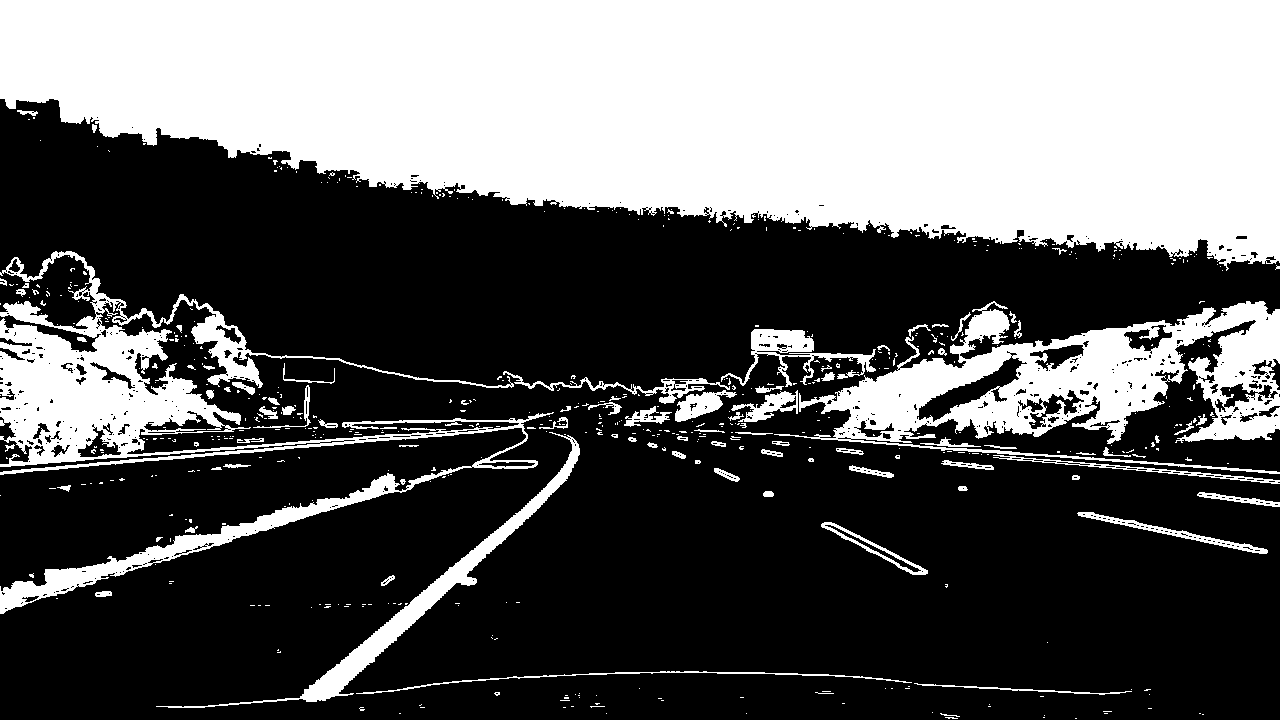
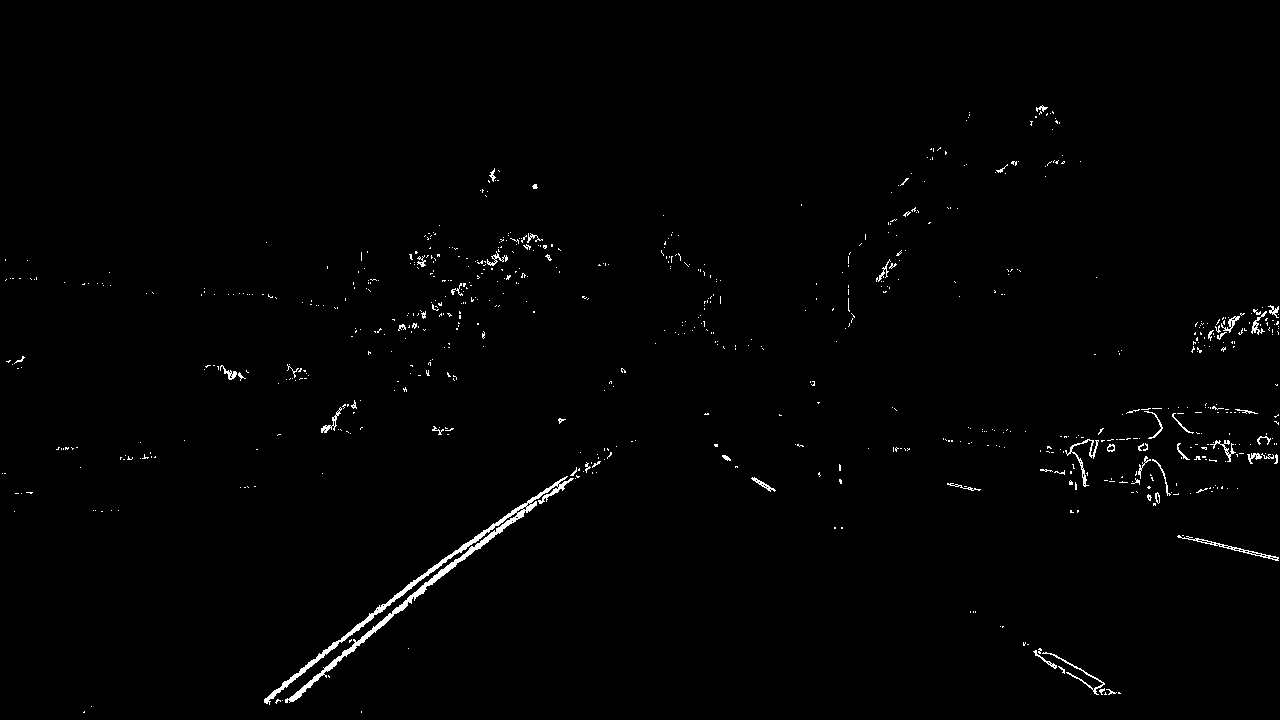
image filtering AKA data extraction adjusted to highlight yellow and white lanes

diff --git a/project4/start.py b/project4/start.py
@@ -8,6 +8,7 @@ import matplotlib.image as mpimg
 import line
 from moviepy.editor import VideoFileClip
 import lpf
+import os.path
 
 demo = False
 # TODO: add convolutions
@@ -43,11 +44,18 @@ def binary_to_color(binary):
 class ImageProcessing:
     def __init__(self, img_size, calibration_set_pattern):
         self.img_size = img_size
-
-        calibration_set = camera.CameraCalibrationSet(calibration_set_pattern)
-        self.cam = camera.Camera()
-        self.cam.LoadCalibrationSet(calibration_set)
-        self.cam.CalibrateFor(self.img_size)
+          
+        packfile = './calibration.pk'
+        if os.path.isfile(packfile):
+            print('loading calibration')
+            self.cam = camera.Camera()
+            self.cam.LoadCalibration(packfile)
+        else:
+            calibration_set = camera.CameraCalibrationSet(calibration_set_pattern)
+            self.cam = camera.Camera()
+            self.cam.LoadCalibrationSet(calibration_set)
+            self.cam.CalibrateFor(self.img_size)
+            self.cam.SaveCalibraton(packfile)
 
         builder = camera.ViewPointBuilder.New()
         builder.SetHorizonLine(0.65)
@@ -62,12 +70,32 @@ class ImageProcessing:
 
         self.ring = lpf.Smoother(0.4)
 
+
     def Filter(self, image):
-        # apply filters
-        ms = gradients.magnitude_sobel(image, thresholds=(50,255))
-        cs = gradients.hsv_mix(image, 'S', thresholds=(100,255))
-        binary = np.zeros_like(image[:,:,0], dtype=np.uint8)
-        binary[(ms==1)|(cs==1)]=1
+        hsv = cv2.cvtColor(image, cv2.COLOR_RGB2HSV)
+
+        yellow_low  = np.array([ 10, 80, 100])
+        yellow_high = np.array([ 40, 255, 255])
+        yellow_mask = cv2.inRange(hsv, yellow_low, yellow_high)
+
+        white_low  = np.array([  0, 0, 220], dtype=np.uint8)
+        white_high = np.array([ 180, 255, 255], dtype=np.uint8)
+        white_mask = cv2.inRange(hsv, white_low, white_high)
+
+        # sobel
+        sobel_kernel=3
+        gray = hsv[:,:,2]
+
+        sobel = cv2.Sobel(gray, cv2.CV_64F, 1, 0, ksize=sobel_kernel)
+        abs_sobel = np.absolute(sobel)
+        scaled_sobel = np.uint8(255*abs_sobel/np.max(abs_sobel))
+
+        binary = np.zeros_like(image[:,:,0], dtype=np.uint8) 
+
+        threshold_min = 5
+        threshold_max = 255
+        binary[(scaled_sobel >= threshold_min)&(scaled_sobel <= threshold_max)&((white_mask!=0)|(yellow_mask!=0))] = 1
+
         return binary
 
     def ApplyLane(self, original, lane):
@@ -116,13 +144,11 @@ class ImageProcessing:
         save_image(out_img, '06_sliding_windows_and_fitted_polynom.png')
 
         result = self.ApplyLane(original, lane)
-
         out_img = lane.DrawSearch(binary_bv)
         save_image(result, '07_lane_applied_to_original.png')
 
         lane = self.locator.Adjust(binary_bv, lane) # search using previous fit
         save_image(out_img, '08_fitting_adjusted.png')
-
         self.last_lane = lane
         return result
 
@@ -145,23 +171,32 @@ def ProcessTestImage(calibration_set_pattern):
     show_images(original, result)
 
 def ProcessVideoClip(calibration_set_pattern):
-    def process_clip_frame(image):
-        global processing
-        return processing.UseSmartLocate(image)
-
     #### source of the images
     videoin = dataf + 'project_video.mp4'
     clip = VideoFileClip(videoin, audio=False)
     original = clip.make_frame(0)
     img_size = (original.shape[1], original.shape[0])
     processing = ImageProcessing(img_size, calibration_set_pattern)
+    def process_clip_frame(image):
+        return processing.UseSmartLocate(image)
     result = processing.UseSmartLocate(original)
     lane_found_clip = clip.fl_image(process_clip_frame)
     lane_found_clip.write_videofile('out/lane_detected.mp4', audio=False)
 
 
+def TroubleshootVideoClip(calibration_set_pattern):
+    #### source of the images
+    videoin = dataf + 'project_video.mp4'
+    clip = VideoFileClip(videoin, audio=False)
+    original = clip.make_frame(41.4)
+    img_size = (original.shape[1], original.shape[0])
+    processing = ImageProcessing(img_size, calibration_set_pattern)
+    processing.Demo(original)
+    #show_images(original, result)
+
+
 #### source of data
-dataf='/Users/Shared/SDC/CarND-Advanced-Lane-Lines/'
+dataf='../../CarND-Advanced-Lane-Lines/'
 calibration_set_pattern = dataf + 'camera_cal/c*.jpg'
 
-ProcessTestImage(calibration_set_pattern)
+ProcessVideoClip(calibration_set_pattern)

diff --git a/project4/camera.py b/project4/camera.py
@@ -69,6 +69,13 @@ class Camera:
         pack["dist"] = self.dist
         pickle.dump(pack, open(fname, "wb"))
 
+    def LoadCalibration(self, fname):
+        with open(fname, 'rb') as f:
+            pack = pickle.load(f)
+            self.image_size = pack["img_size"]
+            self.mtx = pack["mtx"]
+            self.dist = pack["dist"]
+             
 
 class ViewPointBuilder:
     def __init__(self):

diff --git a/project4/writeup.md b/project4/writeup.md
@@ -57,11 +57,16 @@ There are 2 classes that implement bird view modification defined in camera.py: 
 
 *** Step 4. Thresholded binary image ***
 
-Combination of XY sobel and saturation channel is used:
-- XY sobel is a square root of sum of squared X and Y sobel operations
-- Saturation channel of HSV color encoding helped to detect yellow lines that was almost hidden by switching to grayscale for sobel operation.
+[RGB]->[HSV]->[S channel]->[X Sobel] and
+([RGB]->[HSV]->[In Range White] or [RGB]->[HSV]->[In Range Yellow])
 
-code of image calculation implemented in gradients.py module. Specific call and combination of thresholds implemented in module start, class ImageProcessing, function Filter
+Method of point extraction were adjusted to given test images and video clip.
+1. RGB image converted to HSV space
+2. HSV color signal used with combination of ranges to extract yellow and white colored pixels.
+3. Signal from  Saturation channel combined with X Sobel operation used to detect contrast vertical lines
+4. White and Yellow signal masked by Sobel signal in order to reduce non-vertical noise   
+
+Specific call and combination of thresholds implemented in module start, class ImageProcessing, function Filter
 
 ![ALT binary](out/04_filtered_by_sobel_and_color.png)
 
@@ -110,11 +115,11 @@ it is implemented in ScaleFit and CalculateRadius methods of Line class
 ** Video Result **
 
 The clip with result of lane finding is uploaded to YouTube and available by
-https://youtu.be/2pT7RAJIdGs
+https://youtu.be/adUubY3suKY
 
 ** Discussion **
 
 1. It was fun project.
 2. I'm not convinced that it is possible to build static  method of gradient and color thresholding that will work for all conditions. It has to be dynamic and probably learned by neural net
 3. Seriously, please fix explanation of conversion from pixels to meters.
-4. Seems like curvature radius calculation depends on camera location. It would be nice to make an adjustment. 
+4. Seems like curvature radius calculation depends on camera location. It would be nice to make an adjustment.
